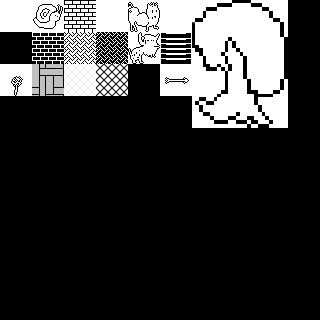
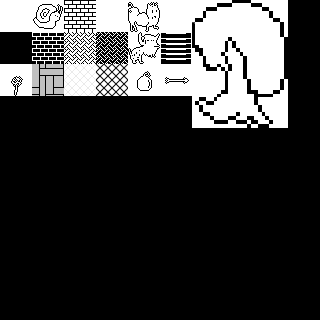
added BombPickup to tilemaps

Changed region(s): [[0.375, 0.1875, 0.5, 0.3125]]

diff --git a/js/Sword.js b/js/Sword.js
@@ -9,7 +9,6 @@ var Sword = function (game, x, y, key, frame) {
     this.kill()
     
     this.properties = {
-        name: "sword",
         //the game.time until the next attack can be made
         attackInterval: 0,
         //the delay between attacks. Added to attackInterval
@@ -44,7 +43,6 @@ Sword.prototype.attack = function () {
         var angleToPointer = game.physics.arcade.angleToPointer(player);
 
         this.appear(angleToPointer);
-        this.fire()
 
         this.properties.attackInterval = game.time.now + this.properties.attackDelay;
     }
@@ -57,18 +55,17 @@ Sword.prototype.appear = function (angleToPointer) {
     this.reset(x, y);
 
     this.rotation = angleToPointer;
-    game.time.events.add(this.properties.attackLifespan, this.disappear, this);
-};
-
-Sword.prototype.fire = function () {
+    
     game.physics.enable(this, Phaser.Physics.ARCADE);
     
     this.body.setSize(this.properties.hitboxSize, this.properties.hitboxSize, 0);
-    game.time.events.add(this.properties.attackLifespan, function () {this.body.destroy()}, this);
+    
+    game.time.events.add(this.properties.attackLifespan, this.disappear, this);
 };
 
 Sword.prototype.disappear = function () {
     this.kill();
+    this.body.destroy();
 };
 
 Sword.prototype.damage = function (hitter, hitee) {

diff --git a/js/player.js b/js/player.js
@@ -36,6 +36,8 @@ var Player = function (game, x, y, key, frame) {
         healthMax: 10,
         health: undefined,
         canTakeDamage: true,
+        switchInterval: 0,
+        switchDelay: 200,
     };
     this.properties.health = this.properties.healthMax;
 
@@ -128,17 +130,21 @@ Player.prototype.takeHeal = function (health) {
 }
 
 Player.prototype.switchWeapons = function () {
-    var index = this.weaponList.indexOf(this.weapon)
-    if (index >= this.weaponList.length - 1) {
-        index = 0;
-    } else {
-        index++;
-    }
+    if (game.time.now > this.properties.switchInterval) {
+        var index = this.weaponList.indexOf(this.weapon)
+        if (index >= this.weaponList.length - 1) {
+            index = 0;
+        } else {
+            index++;
+        }
 
-    this.weapon = this.weaponList[index];
-    
-    var angle;// = game.physics.arcade.angleToPointer(this);
-    this.weapon.appear(angle);
+        this.weapon = this.weaponList[index];
+        
+        var angle;// = game.physics.arcade.angleToPointer(this);
+        this.weapon.appear(angle);
+
+        this.properties.switchInterval = game.time.now + this.properties.switchDelay;
+    }
 }
 
 function initKeyboard (self) {

diff --git a/js/Bow.js b/js/Bow.js
@@ -112,7 +112,7 @@ Bow.prototype.pickUp = function (hitter, hitee) {
     player.addChild(this);
 };
 
-var Arrow = function (game, x, y, key, frame) {
+var ArrowPickup = function (game, x, y, key, frame) {
     if (x == undefined) { x = 0; }
     if (y == undefined) { y = 0; }
     if (key == undefined) { key = graphicAssets.arrow.name; }
@@ -126,19 +126,19 @@ var Arrow = function (game, x, y, key, frame) {
     game.physics.enable(this, Phaser.Physics.ARCADE);
 };
 
-Arrow.prototype = Object.create(Phaser.Sprite.prototype);
-Arrow.prototype.constructor = Arrow;
+ArrowPickup.prototype = Object.create(Phaser.Sprite.prototype);
+ArrowPickup.prototype.constructor = ArrowPickup;
 
-Arrow.prototype.update = function () {
+ArrowPickup.prototype.update = function () {
     this.pickUp();
 };
 
-Arrow.prototype.pickUp = function () {
+ArrowPickup.prototype.pickUp = function () {
     var player = game.state.getCurrentState().player;
     game.physics.arcade.overlap(this, player, this.addArrow, null, this);
 }
 
-Arrow.prototype.addArrow = function (hitter, hitee) {
+ArrowPickup.prototype.addArrow = function (hitter, hitee) {
     hitee.properties.arrowCount += 1;
     this.destroy();
 };

diff --git a/js/Bomb.js b/js/Bomb.js
@@ -114,3 +114,34 @@ var Hitbox = function (game, x, y, key, frame) {
 
 Hitbox.prototype = Object.create(Phaser.Sprite.prototype);
 Hitbox.prototype.constructor = Hitbox;
+
+var BombPickup = function (game, x, y, key, frame) {
+    if (x == undefined) { x = 0; }
+    if (y == undefined) { y = 0; }
+    if (key == undefined) { key = graphicAssets.bomb.name; }
+    
+    //call the Phaser.Sprite passing in the game reference
+    Phaser.Sprite.call(this, game, x, y, key);
+    this.anchor.setTo(0.5, 0.5);
+
+    game.add.existing(this);
+    
+    game.physics.enable(this, Phaser.Physics.ARCADE);
+};
+
+BombPickup.prototype = Object.create(Phaser.Sprite.prototype);
+BombPickup.prototype.constructor = BombPickup;
+
+BombPickup.prototype.update = function () {
+    this.pickUp();
+};
+
+BombPickup.prototype.pickUp = function () {
+    var player = game.state.getCurrentState().player;
+    game.physics.arcade.overlap(this, player, this.addBomb, null, this);
+}
+
+BombPickup.prototype.addBomb = function (hitter, hitee) {
+    hitee.properties.bombCount += 1;
+    this.destroy();
+};

diff --git a/js/Level.js b/js/Level.js
@@ -110,7 +110,8 @@ Level.prototype = {
         
         this.items = game.add.group();
         this.map.createFromObjects('item', 21, graphicAssets.dandelion.name, 0, true, false, this.items, Food);
-        this.map.createFromObjects('item', 26, graphicAssets.arrow.name, 0, true, false, this.items, Arrow);
+        this.map.createFromObjects('item', 26, graphicAssets.arrow.name, 0, true, false, this.items, ArrowPickup);
+        this.map.createFromObjects('item', 25, graphicAssets.bomb.name, 0, true, false, this.items, BombPickup);
         
         initPlayer(this, this.spawnX, this.spawnY, this.playerProperties);
         

diff --git a/js/setup.js b/js/setup.js
@@ -40,9 +40,9 @@ var graphicAssets = {
 };
 
 var firstMapAssets = {
-    // forest1: {URL:'states/json/protoLevel.json', name:'forest1'},
-    // house: {URL:'states/json/protoLevel2.json', name:'house'},
-    // arena: {URL:'states/json/protoLevel3.json', name:'arena'},
+    forest1: {URL:'states/json/protoLevel.json', name:'forest1'},
+    house: {URL:'states/json/protoLevel2.json', name:'house'},
+    arena: {URL:'states/json/protoLevel3.json', name:'arena'},
     gateTransition: {URL:'states/json/gateTransition.json', name:'gateTransition'},
 };
 

diff --git a/states/main.js b/states/main.js
@@ -31,8 +31,8 @@ mainState.prototype = {
         this.scale.pageAlignVertically = true;
         initKeyboard(this);
         
-        // game.input.onDown.addOnce(this.startGame, this);
-        this.startGame();
+        game.input.onDown.addOnce(this.startGame, this);
+        // this.startGame();
     },
     
     startGame: function () {

diff --git a/states/final.js b/states/final.js
@@ -1,7 +1,7 @@
 //create the levels from the premade tilemaps
 // var randomColor = Math.random() * 0xffffff;
 
-var debug = false;
+var debug = true;
 
 //load all the first tilemaps. Adds them to states.firstLevels
 for (var mapKey in firstMapAssets) {
